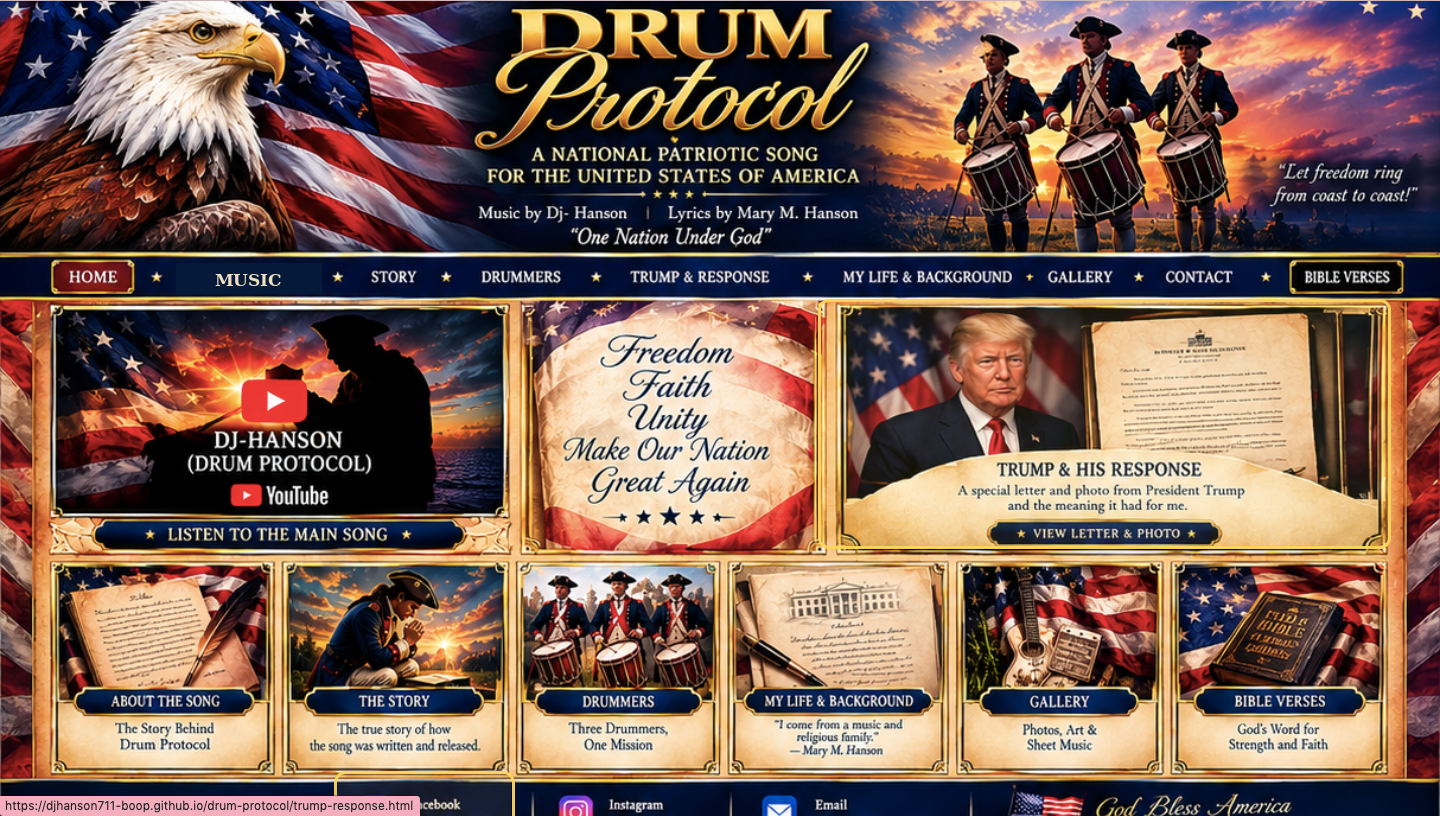
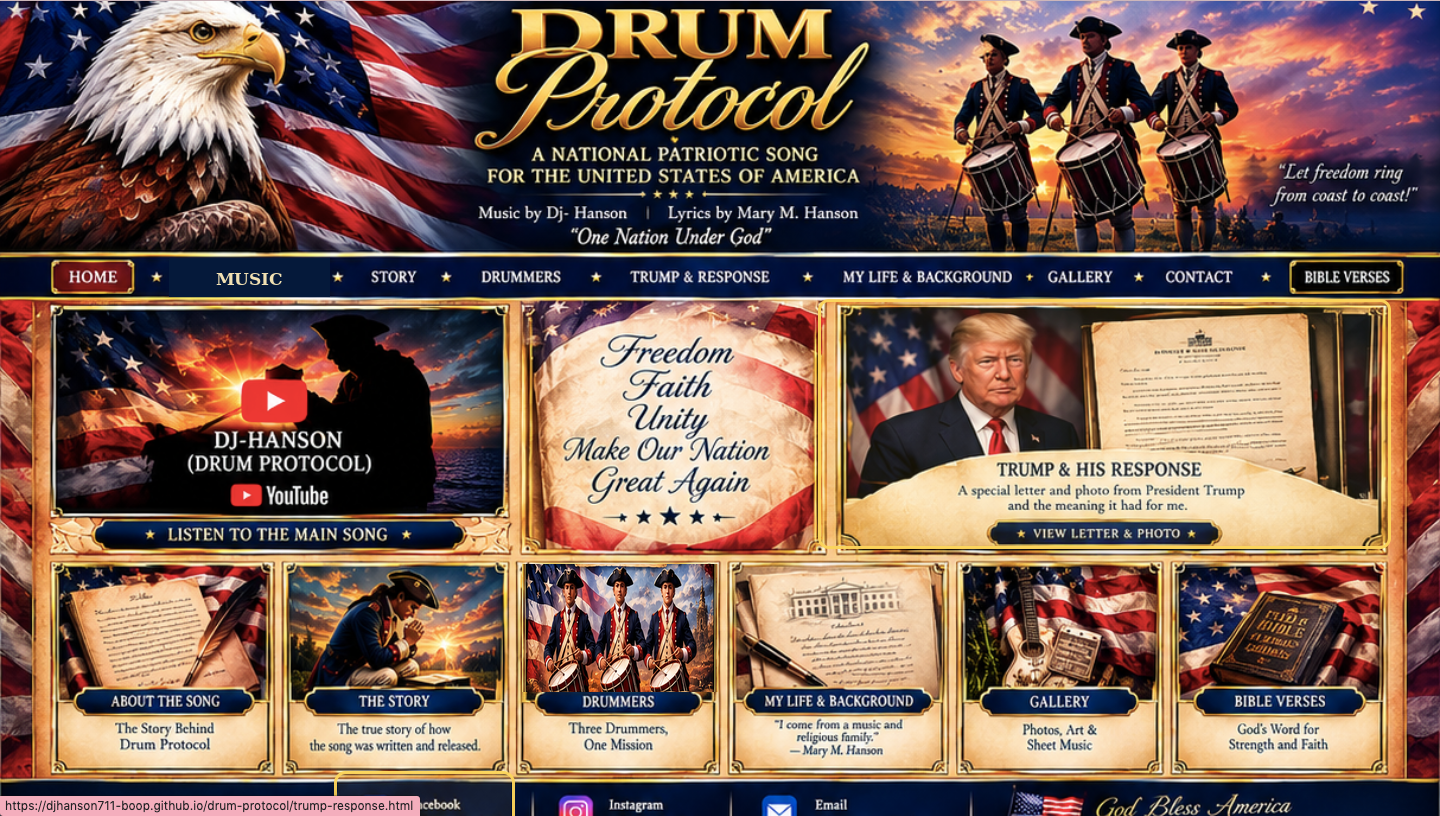
Add files via upload

Changed region(s): [[0.3438, 0.674, 0.5, 0.8578], [0.125, 0.337, 0.2188, 0.3676]]

diff --git a/index.html b/index.html
@@ -1,10 +1,33 @@
-<!doctype html><html><head><meta charset="utf-8"><meta name="viewport" content="width=device-width,initial-scale=1"><title>Drum Protocol</title>
-<style>html,body{margin:0;background:#071b39}.w{position:relative;max-width:1440px;margin:auto}.w>img{width:100%;height:auto;display:block}.h{position:absolute;display:block;z-index:5;background:transparent}
-.home{left:3.5%;top:31.8%;width:6.2%;height:5%}.music{left:11.8%;top:31.8%;width:11%;height:5%}.storynav{left:24.7%;top:31.8%;width:6.5%;height:5%}.drumnav{left:32.4%;top:31.8%;width:8.3%;height:5%}.trumpnav{left:42.2%;top:31.8%;width:12.5%;height:5%}.lifenav{left:56.8%;top:31.8%;width:14.8%;height:5%}.galnav{left:72.4%;top:31.8%;width:7.8%;height:5%}.contactnav{left:80.5%;top:31.8%;width:8%;height:5%}.biblenav{left:89.2%;top:31.8%;width:8.3%;height:5%}
-.song{left:3.5%;top:37%;width:32%;height:31%}.trump{left:58%;top:37%;width:38.5%;height:31%}
-.about{left:3.5%;top:68.5%;width:16%;height:27%}.story{left:20%;top:68.5%;width:16%;height:27%}.drum{left:36.5%;top:68.5%;width:16%;height:27%}.life{left:53%;top:68.5%;width:16%;height:27%}.gallery{left:69.5%;top:68.5%;width:16%;height:27%}.bible{left:86%;top:68.5%;width:11%;height:27%}</style></head><body><div class="w">
-<img src="Drum-Protocol-Clean-Homepage.png" alt="Drum Protocol homepage">
-<a class="h home" href="index.html"></a><a class="h music" href="Drum-Protocol-Sheet-Music.pdf" target="_blank"></a><a class="h storynav" href="story.html"></a><a class="h drumnav" href="drummers.html"></a><a class="h trumpnav" href="trump-response.html"></a><a class="h lifenav" href="life-background.html"></a><a class="h galnav" href="gallery.html"></a><a class="h contactnav" href="mailto:djhanson711@gmail.com"></a><a class="h biblenav" href="bible-verses.html"></a>
-<a class="h song" href="https://www.youtube.com/watch?v=4VN73PMejGE" target="_blank"></a><a class="h trump" href="trump-response.html"></a>
-<a class="h about" href="about.html"></a><a class="h story" href="story.html"></a><a class="h drum" href="drummers.html"></a><a class="h life" href="life-background.html"></a><a class="h gallery" href="gallery.html"></a><a class="h bible" href="bible-verses.html"></a>
+<!doctype html><html><head><meta charset="utf-8"><meta name="viewport" content="width=device-width,initial-scale=1">
+<title>Drum Protocol</title><style>
+html,body{margin:0;background:#071b39}.w{position:relative;max-width:1440px;margin:auto}.w img{width:100%;height:auto;display:block}.h{position:absolute;display:block;z-index:4}
+/* top navigation */
+.home{left:3.5%;top:31.6%;width:6%;height:5%}.music{left:11.7%;top:31.6%;width:11.2%;height:5%}
+.storynav{left:24.2%;top:31.6%;width:7%;height:5%}.drumnav{left:32.2%;top:31.6%;width:9%;height:5%}
+.trumpnav{left:42%;top:31.6%;width:13%;height:5%}.lifenav{left:57.2%;top:31.6%;width:14%;height:5%}
+.gallerynav{left:72.2%;top:31.6%;width:8%;height:5%}.contactnav{left:80.5%;top:31.6%;width:8%;height:5%}
+.biblenav{left:89.3%;top:31.6%;width:8.5%;height:5%}
+/* large upper cards */
+.song{left:3.5%;top:37%;width:32%;height:30.5%}.trump{left:58%;top:37%;width:38.5%;height:30.5%}
+/* six bottom cards */
+.about{left:3.5%;top:68.5%;width:15.7%;height:26.5%}.story{left:19.7%;top:68.5%;width:15.8%;height:26.5%}
+.drummers{left:36%;top:68.5%;width:14%;height:26.5%}.life{left:50.7%;top:68.5%;width:15.2%;height:26.5%}
+.gallery{left:66.5%;top:68.5%;width:14.3%;height:26.5%}.bible{left:81.4%;top:68.5%;width:15.3%;height:26.5%}
+</style></head><body><div class="w"><img src="Drum-Protocol-Clean-Homepage.png" alt="Drum Protocol homepage">
+<a class="h home" href="index.html" aria-label="Home"></a>
+<a class="h music" href="Drum-Protocol-Sheet-Music.pdf" target="_blank" aria-label="Music"></a>
+<a class="h storynav" href="story.html" aria-label="Story"></a>
+<a class="h drumnav" href="drummers.html" aria-label="Drummers"></a>
+<a class="h trumpnav" href="trump-response.html" aria-label="Trump and Response"></a>
+<a class="h lifenav" href="life-background.html" aria-label="My Life and Background"></a>
+<a class="h gallerynav" href="gallery.html" aria-label="Gallery"></a>
+<a class="h biblenav" href="bible-verses.html" aria-label="Bible Verses"></a>
+<a class="h song" href="https://www.youtube.com/watch?v=4VN73PMejGE" target="_blank" aria-label="Listen to Drum Protocol"></a>
+<a class="h trump" href="trump-response.html" aria-label="Trump and Response"></a>
+<a class="h about" href="about.html" aria-label="About the Song"></a>
+<a class="h story" href="story.html" aria-label="Story"></a>
+<a class="h drummers" href="drummers.html" aria-label="Drummers"></a>
+<a class="h life" href="life-background.html" aria-label="My Life and Background"></a>
+<a class="h gallery" href="gallery.html" aria-label="Gallery"></a>
+<a class="h bible" href="bible-verses.html" aria-label="Bible Verses"></a>
 </div></body></html>

diff --git a/trump-response.html b/trump-response.html
@@ -29,8 +29,9 @@ h1{font-size:42px;margin:0 0 22px}
 <a href="life-background.html">My Life &amp; Background</a>
 <a href="gallery.html">Gallery</a>
 <a href="bible-verses.html">Bible Verses</a>
-</div><main class="page"><div class="document"><h1>Trump &amp; Response</h1><div class="trio">
-<figure><img src="Marys-Letter-to-President-Trump.png" alt="Mary's letter"><figcaption>Mary’s Letter</figcaption></figure>
-<figure><img src="Trump-Response-Letter.jpg" alt="Response letter"><figcaption>Response Letter</figcaption></figure>
-<figure><img src="Trump_Portrait_Drum_Protocol.png" alt="Portrait"><figcaption>Portrait</figcaption></figure>
+</div><main class="page"><div class="document"><h1>Trump &amp; Response</h1>
+<div class="trio" style="align-items:stretch">
+<figure><img src="Marys-Letter-to-President-Trump.png" alt="Mary's letter" style="object-fit:contain;background:#fff"><figcaption>Mary’s Letter</figcaption></figure>
+<figure><img src="Trump_Portrait_Drum_Protocol.png" alt="Portrait" style="object-fit:contain"><figcaption>Portrait</figcaption></figure>
+<figure style="background:#f7f1e6"><img src="Trump-Response-Letter.jpg" alt="Response letter" style="object-fit:contain;background:white;padding:10px;box-shadow:0 3px 10px rgba(0,0,0,.2)"><figcaption>Response Letter</figcaption></figure>
 </div></div></main></body></html>

diff --git a/bible-verses.html b/bible-verses.html
@@ -29,4 +29,16 @@ h1{font-size:42px;margin:0 0 22px}
 <a href="life-background.html">My Life &amp; Background</a>
 <a href="gallery.html">Gallery</a>
 <a href="bible-verses.html">Bible Verses</a>
-</div><main class="page"><div class="document"><h1>Bible Verses</h1><img class="reference" src="Revolutionary-Prayer.png"></div></main></body></html>
+</div><main class="page"><div class="document">
+<h1>Bible Verses</h1>
+<div style="display:grid;grid-template-columns:1fr 1.15fr;gap:30px;align-items:center">
+<img class="reference" style="margin:0" src="Revolutionary-Prayer.png" alt="Revolutionary man praying">
+<div id="verses" style="background:#f4dfad;border:7px double #8b5c1b;padding:30px;text-align:center;font-size:20px;line-height:1.5">
+<h2>Psalm 63:14</h2><p>“So I will bless You while I live;<br>I will lift up my hands in Your name.”</p>
+<hr>
+<h2>Psalm 17:17</h2><p>“Show Your marvelous lovingkindness,<br>O You who save by Your right hand<br>those who trust in You from their enemies.”</p>
+<hr>
+<h2>1 Kings 8:22-23</h2><p>“Then Solomon stood before the altar<br>of the Lord, with his hands spread toward<br>heaven, and said...”</p>
+</div></div></div>
+<style>@media(max-width:800px){#verses{font-size:18px}.document>div{grid-template-columns:1fr!important}}</style>
+</main></body></html>
